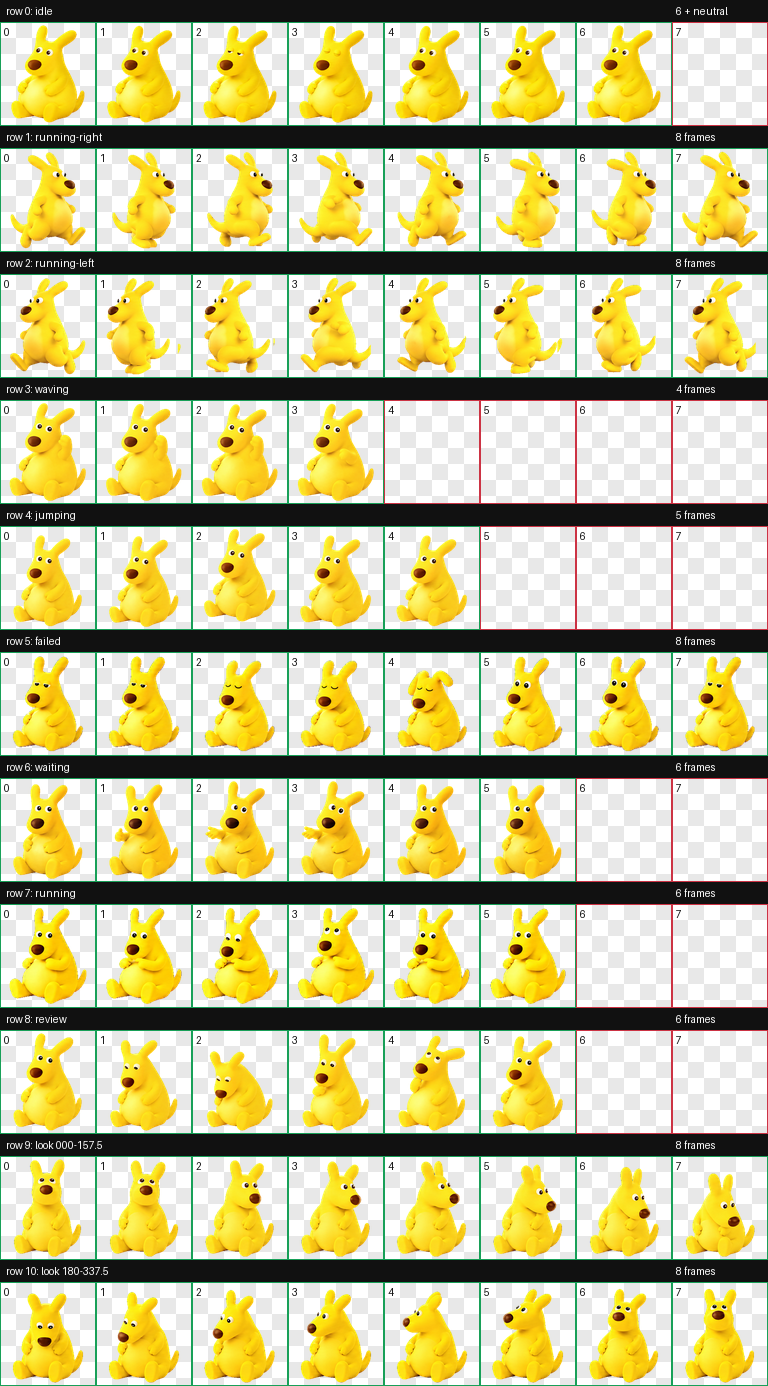
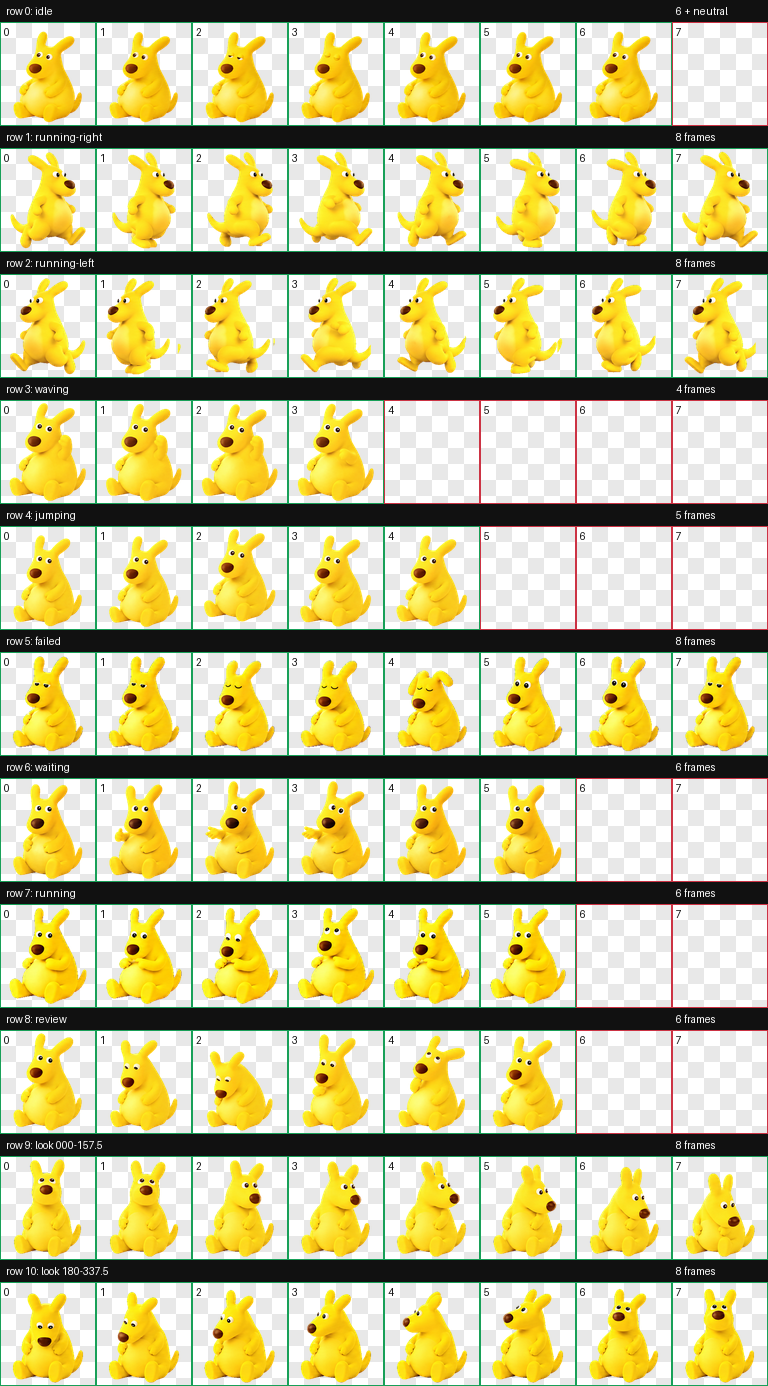
Match idle size and yellow tone to preferred landing pose

diff --git a/normalize_idle.py b/normalize_idle.py
@@ -1,0 +1,67 @@
+"""Match idle scale and yellow tone to the existing jump landing reference."""
+from pathlib import Path
+import argparse
+import colorsys
+import json
+from statistics import median
+from PIL import Image
+
+
+def normalize(path):
+    atlas = Image.open(path).convert('RGBA')
+    idle = atlas.crop((0, 0, 192, 208))
+    landing = atlas.crop((768, 832, 960, 1040))
+
+    def bounds(im):
+        return im.getchannel('A').point(lambda x: 255 if x > 100 else 0).getbbox()
+
+    def belly_color(im):
+        x0, y0, x1, y1 = bounds(im)
+        region = im.crop((round(x0+(x1-x0)*.36), round(y0+(y1-y0)*.57),
+                          round(x0+(x1-x0)*.64), round(y0+(y1-y0)*.78)))
+        pixels = [p for p in region.getdata() if p[3] > 250]
+        return [median(p[i] for p in pixels) for i in range(3)]
+
+    source_box, target_box = bounds(idle), bounds(landing)
+    scale = (target_box[3]-target_box[1])/(source_box[3]-source_box[1])
+    source_color, target_color = belly_color(idle), belly_color(landing)
+    delta = [t-s for s, t in zip(source_color, target_color)]
+    # Same transform for all six idle frames plus the dedicated neutral cell.
+    # A shared foot anchor retains the original breathing/blinking displacement.
+    for col in range(7):
+        cell = atlas.crop((col*192, 0, (col+1)*192, 208))
+        pixels = []
+        for red, green, blue, alpha in cell.getdata():
+            if not alpha:
+                pixels.append((0, 0, 0, 0))
+                continue
+            hue, saturation, value = colorsys.rgb_to_hsv(red/255, green/255, blue/255)
+            weight = min(1, max(0, (value-.55)/.2)) * min(1, saturation/.3)
+            if not .07 < hue < .22:
+                weight = 0
+            rgb = [round(min(255, max(0, v + shift*weight)))
+                   for v, shift in zip((red, green, blue), delta)]
+            pixels.append((*rgb, alpha))
+        cell.putdata(pixels)
+        width, height = round(192*scale), round(208*scale)
+        scaled = cell.resize((width, height), Image.Resampling.LANCZOS)
+        result = Image.new('RGBA', (192, 208))
+        top = round(target_box[3] - source_box[3]*(height/208))
+        result.alpha_composite(scaled, ((192-width)//2, top))
+        result.putdata([p if p[3] else (0, 0, 0, 0) for p in result.getdata()])
+        atlas.paste(result, (col*192, 0))
+    atlas.save(path, lossless=True, exact=True)
+    return {'scale': scale, 'source_belly_rgb': source_color,
+            'target_belly_rgb': target_color, 'channel_offset': delta,
+            'changed_cells': ['r0c'+str(i) for i in range(7)]}
+
+
+if __name__ == '__main__':
+    parser = argparse.ArgumentParser(description=__doc__)
+    parser.add_argument('atlas', type=Path)
+    parser.add_argument('--report', type=Path)
+    args = parser.parse_args()
+    report = normalize(args.atlas)
+    if args.report:
+        args.report.write_text(json.dumps(report, indent=2)+'\n')
+    print(json.dumps(report))

diff --git a/build_pet.py b/build_pet.py
@@ -48,4 +48,7 @@ run('despill_chroma_edges.py', final/'extended.png', '--output', final/'extended
 run('validate_atlas.py', final/'extended.webp', '--require-v2', '--chroma-key', '#0000FF',
     '--json-out', qa/'validation.json')
 shutil.copy2(final/'extended.webp', root/'spritesheet.webp')
+subprocess.run([sys.executable, str(root/'normalize_idle.py'), str(root/'spritesheet.webp')], check=True)
+run('validate_atlas.py', root/'spritesheet.webp', '--require-v2', '--chroma-key', '#0000FF',
+    '--json-out', qa/'validation-normalized.json')
 print('Rebuilt spritesheet.webp; inspect visual QA before installing modified rows.')

diff --git a/README.md b/README.md
@@ -19,6 +19,9 @@ python3 install.py
 
 ## 本次修正
 
+根据实际截图，待机比跳跃结束帧大约7%，且偏亮黄；现将六帧待机及中性帧按同一比例缩小，并以跳跃结束帧校正黄色。保留原眨眼、呼吸和脚底锚点。对比见[尺寸与颜色](qa/idle-comparison.png)。
+
+
 - 鼻子去掉凸起边圈，脸型拉宽、肚子加圆，短手与向前坐姿脚更接近参考。
 - 逐行动作制作：左右跑动步态交替；同一只短爪挥手；小幅跳跃保留上下位移。
 - 工作改为算手指/思考，检查改为托腮观察，等待为伸掌示意。
@@ -49,7 +52,7 @@ pip install -r requirements.txt
 python3 build_pet.py --skill-dir ~/.codex/skills/hatch-pet
 ```
 
-`source/rows/` 保存已选定的整行动作原图；构建脚本调用 hatch-pet 的提帧、对齐、合成和边缘清理工具。更换原图后仍需重新视觉审查，脚本通过不代表动作和形象必然正确。
+`source/rows/` 保存已选定的整行动作原图；构建脚本调用 hatch-pet 的提帧、对齐、合成和边缘清理工具，再调用 `normalize_idle.py` 统一待机尺寸和色调。更换原图后仍需重新视觉审查，脚本通过不代表动作和形象必然正确。
 
 生成使用内置 imagegen；提示词见 `source/prompts/`，视频观察记录见 [video-reference-review.md](source/video-reference-review.md)。
 
